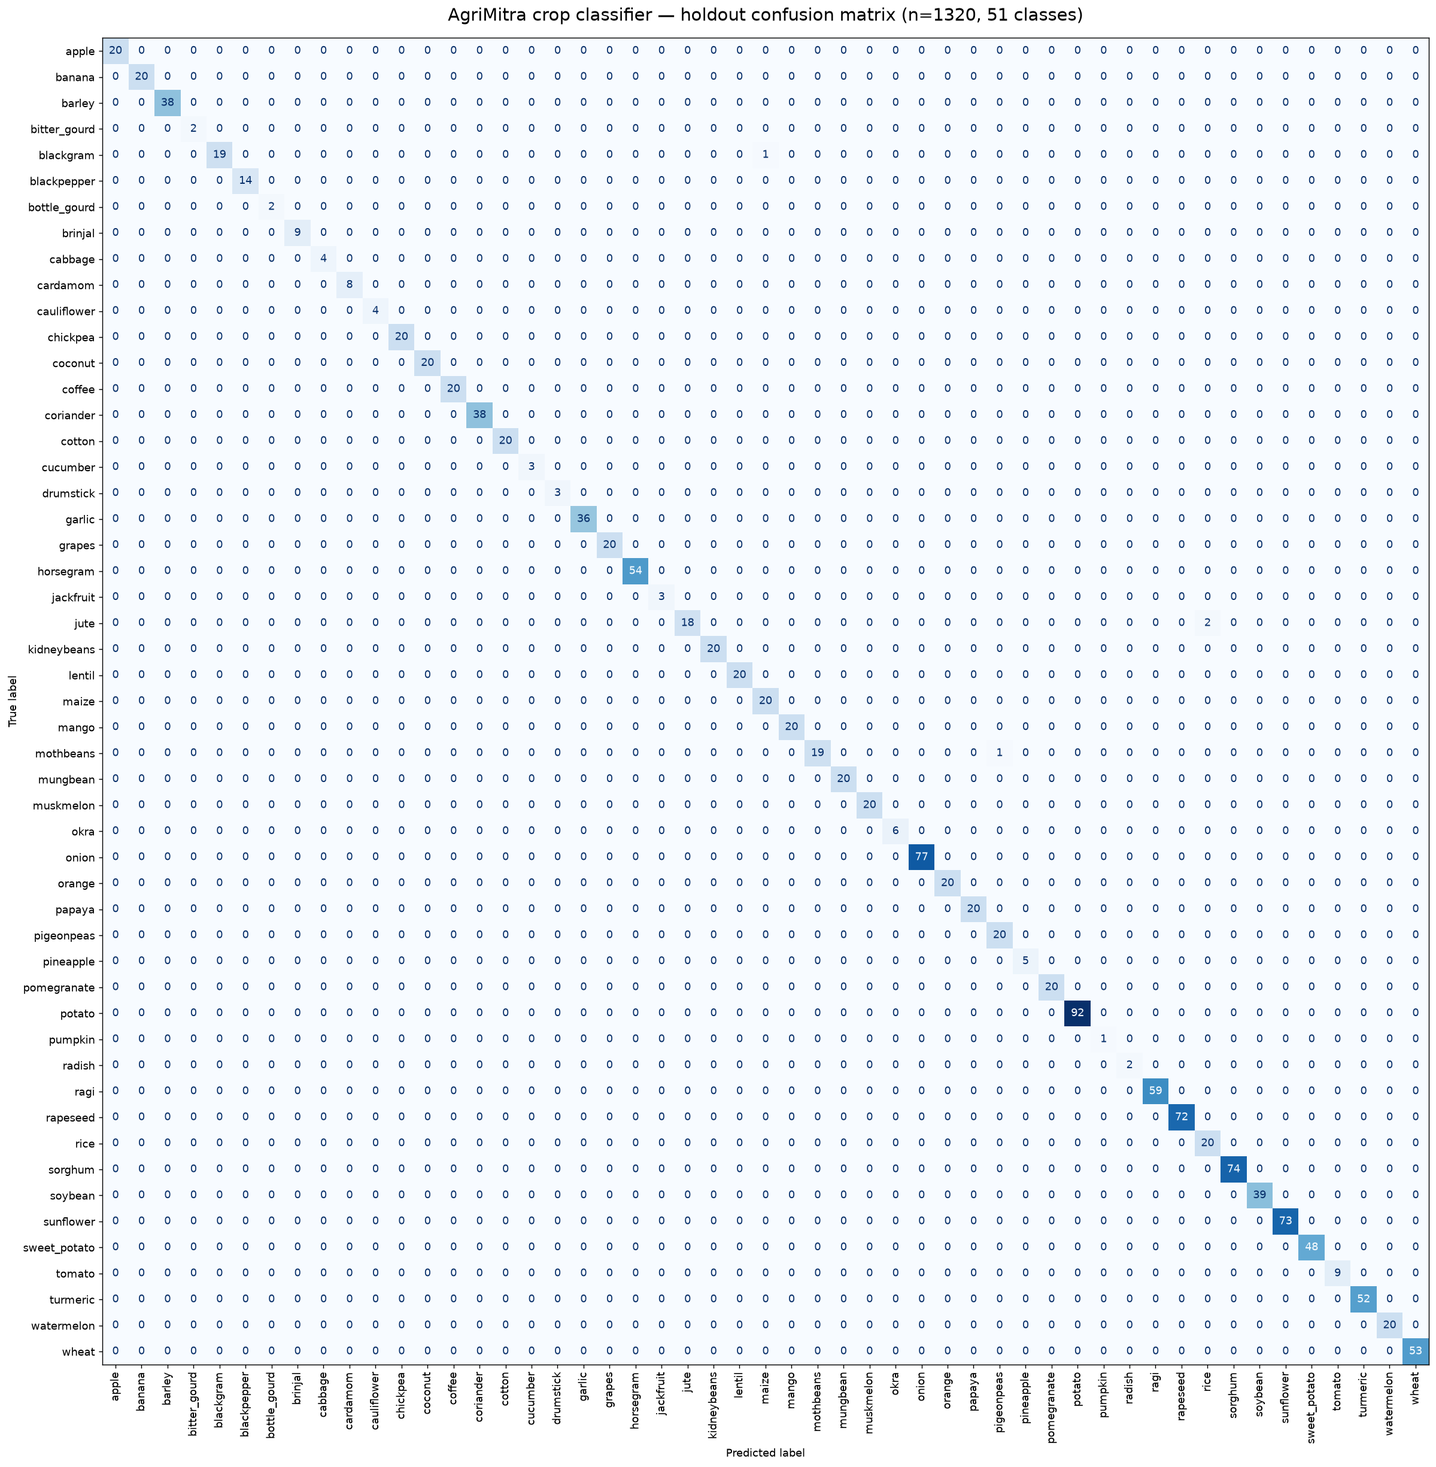
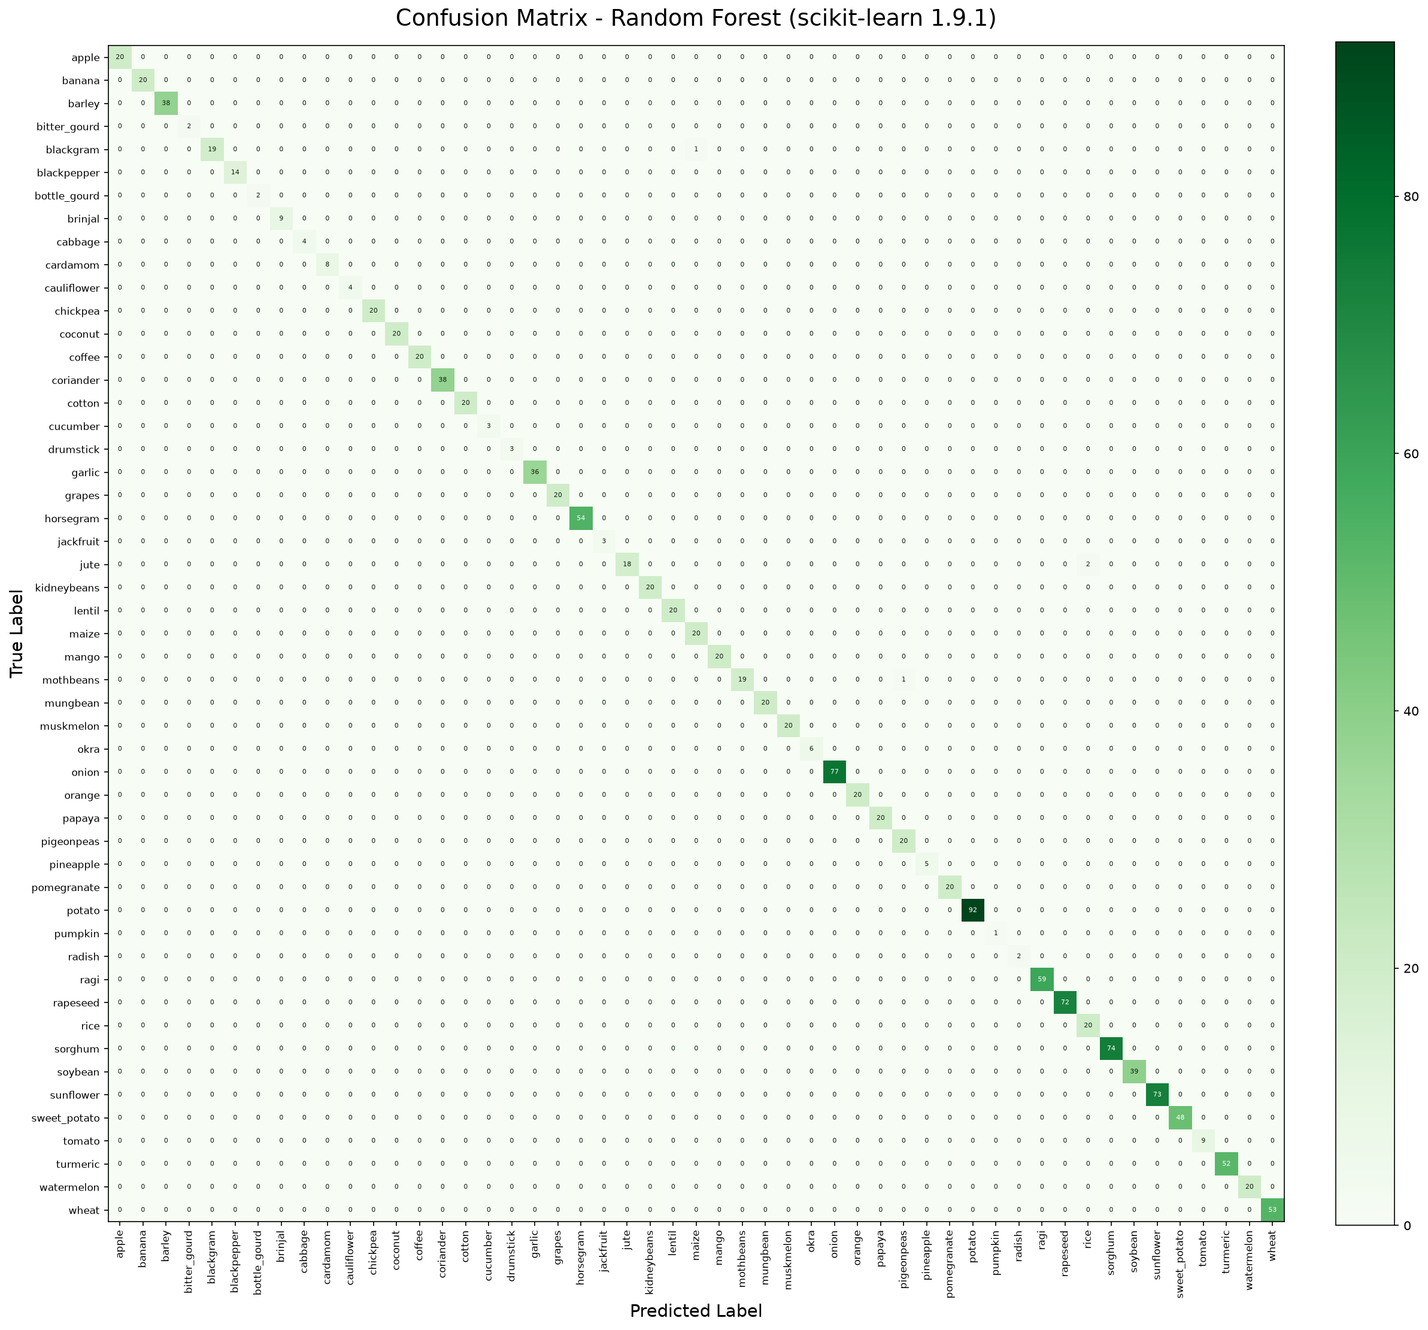
fix: retrain model on pinned sklearn and surface low coverage
Replace the crop artifact with a scikit-learn 1.9.1 model using the existing tuned RandomForest parameters; holdout metrics are unchanged and loading no longer emits InconsistentVersionWarning. Add a UI fallback warning when coverage is below 50%, document the behavior, and cover the backend warning path with a regression test.

diff --git a/src/components/RecommendationForm.tsx b/src/components/RecommendationForm.tsx
@@ -47,6 +47,15 @@ export default function RecommendationForm() {
   const [failed, setFailed] = useState(false);
   const [result, setResult] = useState<RecommendResponse | null>(null);
 
+  const coverage = result?.coverage ?? null;
+  const warnings = result?.warnings ?? [];
+  // The API already emits a coverage warning, but keep a UI fallback so a stale
+  // or cached response can never hide low coverage from the user.
+  const showCoverageWarning =
+    coverage != null &&
+    coverage < 50 &&
+    !warnings.some((w) => /coverage|probability mass/i.test(w));
+
   const fields = useMemo<{ key: FieldKey; placeholder: string }[]>(
     () => [
       { key: "n", placeholder: t("placeholder_n") },
@@ -227,7 +236,7 @@ export default function RecommendationForm() {
               </span>
             </div>
 
-            {result.warnings?.map((w, i) => (
+            {warnings.map((w, i) => (
               <p
                 key={i}
                 className="mt-3 rounded-xl border border-amber-600/30 bg-amber-50 px-3 py-2 text-xs text-amber-700 dark:bg-amber-500/10 dark:text-amber-300"
@@ -235,6 +244,15 @@ export default function RecommendationForm() {
                 ⚠ {w}
               </p>
             ))}
+
+            {showCoverageWarning && coverage != null && (
+              <p className="mt-3 rounded-xl border border-amber-600/30 bg-amber-50 px-3 py-2 text-xs text-amber-700 dark:bg-amber-500/10 dark:text-amber-300">
+                ⚠{" "}
+                {lang === "hi"
+                  ? `मॉडल की केवल ${coverage.toFixed(1)}% संभावना उन फसलों पर है जिनकी पूरी गाइड उपलब्ध है — इन सुझावों को केवल सलाह मानें, निश्चितता नहीं।`
+                  : `Only ${coverage.toFixed(1)}% of the model's probability mass maps to crops with a full guide — treat these picks as suggestions, not certainty.`}
+              </p>
+            )}
 
             <div className="mt-5 grid gap-4 md:grid-cols-2">
               {result.recommendations.map((hit, i) => (

diff --git a/backend/tests/test_recommend.py b/backend/tests/test_recommend.py
@@ -1,5 +1,7 @@
 from fastapi.testclient import TestClient
 
+from app.services import recommender
+
 VALID_PAYLOAD = {
     "n": 90,
     "p": 50,
@@ -52,3 +54,29 @@ def test_recommend_requires_location(client: TestClient):
     response = client.post("/api/recommend", json=payload)
 
     assert response.status_code == 422
+
+
+def test_low_coverage_adds_warning(monkeypatch):
+    crop = {
+        "id": "rice",
+        "slug": "rice",
+        "name": "Rice",
+        "nameHi": "चावल",
+        "emoji": "🌾",
+        "categoryName": "Cereal",
+        "states": [],
+        "conditions": {
+            param: {"min": 0, "max": 100} for param in recommender.PARAMS
+        },
+    }
+    ranked = [{"crop": crop, "confidence": 12.5, "proba": 0.125, "scores": {}}]
+    monkeypatch.setattr(recommender, "load_crop_base", lambda: [crop])
+    monkeypatch.setattr(recommender.ml_model, "predict", lambda inputs, base: (ranked, 12.5))
+
+    result = recommender.recommend(
+        {param: 50.0 for param in recommender.PARAMS},
+        location="",
+    )
+
+    assert result.coverage == 12.5
+    assert any("probability mass" in warning for warning in result.warnings)

diff --git a/backend/app/services/ml_model.py b/backend/app/services/ml_model.py
@@ -59,8 +59,8 @@ def _load_model_cached(path: str, mtime_ns: int):
     with warnings.catch_warnings(record=True) as caught:
         warnings.simplefilter("always")
         model = joblib.load(path)
-    # A forest emits the same version warning once per tree; log each distinct
-    # message once instead of flooding the startup log with 100+ duplicates.
+    # Surface load-time warnings (for example version drift) without repeating
+    # the same message once per tree.
     for message in {str(warning.message) for warning in caught}:
         log.warning(
             "scikit-learn %s warning while loading %s: %s",

diff --git a/README.md b/README.md
@@ -32,16 +32,16 @@ same knowledge base.
 
 ## ✨ Features
 
-| # | Feature | Detail |
-| - | --- | --- |
-| 1 | **Course Hub** | 36 PDFs parsed into Markdown tutorials (~1.6M words) plus structured topic guides for 16 courses (1,613 topics), SSG-rendered, searchable and filterable by 16 categories |
-| 2 | **Crop Knowledge Base** | 22 crops × **15 guide sections** (basics · climate · soil · land prep · seed · sowing · irrigation · nutrients · weeds · pests · diseases · growth · monitoring · harvest · economics) |
-| 3 | **Crop Recommender** | Enter **N, P, K, temperature, humidity, pH, rainfall, location** → top crops with raw model probability, a separate coverage score, and per-parameter fit bars. RandomForest with a rule-based fallback |
-| 4 | **AgriBot (RAG Chatbot)** | Chat widget answers from ChromaDB chunks, shows up to **5 source cards**, and warns when an answer is not grounded in the library. Graceful keyword/offline fallback |
-| 5 | **Bilingual UI** | English ⇄ हिन्दी toggle for the interface, crop names, and chatbot replies |
-| 6 | **Dark / Light mode** | Persisted preference, system-aware default |
-| 7 | **Resilient by design** | MongoDB down → skip persistence, keep serving. Backend down → in-browser recommender and cached chat notes. Timeouts everywhere |
-| 8 | **Modular monorepo** | Next.js BFF routes, FastAPI API modules, Mongo models, services, seed scripts, ML notebooks, and a tested data pipeline |
+| # | Feature                         | Detail                                                                                                                                                                                                         |
+| - | ------------------------------- | -------------------------------------------------------------------------------------------------------------------------------------------------------------------------------------------------------------- |
+| 1 | **Course Hub**            | 36 PDFs parsed into Markdown tutorials (~1.6M words) plus structured topic guides for 16 courses (1,613 topics), SSG-rendered, searchable and filterable by 16 categories                                      |
+| 2 | **Crop Knowledge Base**   | 22 crops × **15 guide sections** (basics · climate · soil · land prep · seed · sowing · irrigation · nutrients · weeds · pests · diseases · growth · monitoring · harvest · economics)    |
+| 3 | **Crop Recommender**      | Enter **N, P, K, temperature, humidity, pH, rainfall, location** → top crops with raw model probability, a separate coverage score, and per-parameter fit bars. RandomForest with a rule-based fallback |
+| 4 | **AgriBot (RAG Chatbot)** | Chat widget answers from ChromaDB chunks, shows up to **5 source cards**, and warns when an answer is not grounded in the library. Graceful keyword/offline fallback                                     |
+| 5 | **Bilingual UI**          | English ⇄ हिन्दी toggle for the interface, crop names, and chatbot replies                                                                                                                              |
+| 6 | **Dark / Light mode**     | Persisted preference, system-aware default                                                                                                                                                                     |
+| 7 | **Resilient by design**   | MongoDB down → skip persistence, keep serving. Backend down → in-browser recommender and cached chat notes. Timeouts everywhere                                                                              |
+| 8 | **Modular monorepo**      | Next.js BFF routes, FastAPI API modules, Mongo models, services, seed scripts, ML notebooks, and a tested data pipeline                                                                                        |
 
 ---
 
@@ -113,13 +113,13 @@ Browser UI · recommender · chatbot with source cards
 
 ## 🧰 Tech Stack
 
-| Layer | Technology |
-| --- | --- |
-| Frontend | Next.js 16 (App Router) · React 19 · TypeScript · Tailwind CSS v4 · lucide-react · react-markdown |
-| Backend | FastAPI 0.141 · uvicorn · Pydantic v2 · httpx |
-| Databases | MongoDB 7 (Docker) · ChromaDB 1.5 (vector) |
-| AI | Groq `openai/gpt-oss-120b` · local embeddings (`all-MiniLM-L6-v2`, ONNX, 384d) · Gemini optional |
-| Tooling | Node 24 · Python **3.14** · uv · Docker Compose · pytest · GitHub Actions |
+| Layer     | Technology                                                                                             |
+| --------- | ------------------------------------------------------------------------------------------------------ |
+| Frontend  | Next.js 16 (App Router) · React 19 · TypeScript · Tailwind CSS v4 · lucide-react · react-markdown |
+| Backend   | FastAPI 0.141 · uvicorn · Pydantic v2 · httpx                                                       |
+| Databases | MongoDB 7 (Docker) · ChromaDB 1.5 (vector)                                                            |
+| AI        | Groq `openai/gpt-oss-120b` · local embeddings (`all-MiniLM-L6-v2`, ONNX, 384d) · Gemini optional |
+| Tooling   | Node 24 · Python **3.14** · uv · Docker Compose · pytest · GitHub Actions                   |
 
 > `allam-2-7b` is still available on Groq and was verified for English and Hindi,
 > but its Hindi farming answers were noticeably weaker. The default is therefore
@@ -133,15 +133,18 @@ Browser UI · recommender · chatbot with source cards
 The trained artifact is a scikit-learn `RandomForestClassifier` over **51 crop
 labels**, using the feature order `N, P, K, temperature, humidity, ph, rainfall`.
 
-| Metric | Value |
-| --- | ---: |
-| Holdout samples | 1,320 |
-| Correct | 1,316 |
+| Metric             |             Value |
+| ------------------ | ----------------: |
+| Holdout samples    |             1,320 |
+| Correct            |             1,316 |
 | **Accuracy** | **0.99697** |
-| Macro precision | 0.99635 |
-| Macro recall | 0.99608 |
+| Macro precision    |           0.99635 |
+| Macro recall       |           0.99608 |
 | **Macro F1** | **0.99607** |
-| Weighted F1 | 0.99696 |
+| Weighted F1        |           0.99696 |
+
+The artifact is trained and saved with **scikit-learn 1.9.1**, matching
+`requirements.txt`, so loading it no longer emits an `InconsistentVersionWarning`.
 
 The holdout is the same **80/20 stratified split** (`random_state=42`) used in
 `crop-ml/trainingModel.ipynb`. Full values are in
@@ -174,14 +177,14 @@ Top confusions: `jute → rice` (2), `blackgram → maize` (1),
 
 ## 📦 Hosted Assets
 
-| Asset | Location |
-| --- | --- |
-| Source code | [GitHub](https://github.com/Likeshkumarsahu/AgriMitra) |
-| 36 source PDFs | [HF dataset root](https://huggingface.co/datasets/logicmatters06/agrimitra-dataset) |
+| Asset           | Location                                                                                               |
+| --------------- | ------------------------------------------------------------------------------------------------------ |
+| Source code     | [GitHub](https://github.com/Likeshkumarsahu/AgriMitra)                                                  |
+| 36 source PDFs  | [HF dataset root](https://huggingface.co/datasets/logicmatters06/agrimitra-dataset)                     |
 | 20 JSON exports | [HF dataset `json/`](https://huggingface.co/datasets/logicmatters06/agrimitra-dataset/tree/main/json) |
-| Trained model | [`logicmatters06/agrimitra-crop-model`](https://huggingface.co/logicmatters06/agrimitra-crop-model) |
-| Model card | [`docs/hf-model-card.md`](docs/hf-model-card.md) |
-| Dataset card | [`docs/hf-dataset-card.md`](docs/hf-dataset-card.md) |
+| Trained model   | [`logicmatters06/agrimitra-crop-model`](https://huggingface.co/logicmatters06/agrimitra-crop-model)   |
+| Model card      | [`docs/hf-model-card.md`](docs/hf-model-card.md)                                                      |
+| Dataset card    | [`docs/hf-dataset-card.md`](docs/hf-dataset-card.md)                                                  |
 
 The app does **not** need the PDFs at runtime: the generated `data/*.json` and
 `data/courses/*.md` are enough for the frontend. Download the PDFs only when you
@@ -308,24 +311,24 @@ cp .env.example .env.local
 cp backend/.env.example backend/.env
 ```
 
-| Variable | Where | Required | Default | Purpose |
-| --- | --- | :---: | --- | --- |
-| `GROQ_API_KEY` | `backend/.env` | ✅ | – | Chat generation |
-| `LLM_PROVIDER` | `backend/.env` | ❌ | `groq` | `groq` or `gemini` |
-| `GROQ_MODEL` | `backend/.env` | ❌ | `openai/gpt-oss-120b` | Auto-detects another model if unreachable |
-| `GEMINI_API_KEY` | `backend/.env` | ❌ | – | Only for Gemini chat/embeddings |
-| `GEMINI_MODEL` | `backend/.env` | ❌ | `gemini-2.5-flash` | Only if `LLM_PROVIDER=gemini` |
-| `EMBEDDING_PROVIDER` | `backend/.env` | ❌ | `local` | `local` (ONNX) or `gemini` (API) |
-| `MONGODB_URI` | `backend/.env` | ❌ | `mongodb://localhost:27017` | Mongo connection |
-| `DATA_DIR` | `backend/.env` | ❌ | `./data` | Relative paths resolve from repo root |
-| `CHROMA_PERSIST_DIR` | `backend/.env` | ❌ | `./data/chroma` | Vector store path |
-| `CROP_MODEL_PATH` | `backend/.env` | ❌ | `./crop-ml/crop_recommendation_model.pkl` | Empty/missing disables ML |
-| `RAG_TOP_K` | `backend/.env` | ❌ | `5` | Retrieved chunks and max source cards |
-| `CHROMA_MAX_DISTANCE` | `backend/.env` | ❌ | `0.75` | Drop weak vector matches |
-| `CHAT_RATE_LIMIT` | `backend/.env` | ❌ | `20` | Requests per client per window |
-| `CHAT_RATE_WINDOW_S` | `backend/.env` | ❌ | `60` | Rate-limit window (seconds) |
-| `BACKEND_URL` | root `.env.local` | ❌ | `http://localhost:8000` | Private BFF target |
-| `NEXT_PUBLIC_BACKEND_URL` | root `.env.local` | ❌ | `http://localhost:8000` | Direct backend URL |
+| Variable                    | Where               | Required | Default                                     | Purpose                                   |
+| --------------------------- | ------------------- | :------: | ------------------------------------------- | ----------------------------------------- |
+| `GROQ_API_KEY`            | `backend/.env`    |    ✅    | –                                          | Chat generation                           |
+| `LLM_PROVIDER`            | `backend/.env`    |    ❌    | `groq`                                    | `groq` or `gemini`                    |
+| `GROQ_MODEL`              | `backend/.env`    |    ❌    | `openai/gpt-oss-120b`                     | Auto-detects another model if unreachable |
+| `GEMINI_API_KEY`          | `backend/.env`    |    ❌    | –                                          | Only for Gemini chat/embeddings           |
+| `GEMINI_MODEL`            | `backend/.env`    |    ❌    | `gemini-2.5-flash`                        | Only if `LLM_PROVIDER=gemini`           |
+| `EMBEDDING_PROVIDER`      | `backend/.env`    |    ❌    | `local`                                   | `local` (ONNX) or `gemini` (API)      |
+| `MONGODB_URI`             | `backend/.env`    |    ❌    | `mongodb://localhost:27017`               | Mongo connection                          |
+| `DATA_DIR`                | `backend/.env`    |    ❌    | `./data`                                  | Relative paths resolve from repo root     |
+| `CHROMA_PERSIST_DIR`      | `backend/.env`    |    ❌    | `./data/chroma`                           | Vector store path                         |
+| `CROP_MODEL_PATH`         | `backend/.env`    |    ❌    | `./crop-ml/crop_recommendation_model.pkl` | Empty/missing disables ML                 |
+| `RAG_TOP_K`               | `backend/.env`    |    ❌    | `5`                                       | Retrieved chunks and max source cards     |
+| `CHROMA_MAX_DISTANCE`     | `backend/.env`    |    ❌    | `0.75`                                    | Drop weak vector matches                  |
+| `CHAT_RATE_LIMIT`         | `backend/.env`    |    ❌    | `20`                                      | Requests per client per window            |
+| `CHAT_RATE_WINDOW_S`      | `backend/.env`    |    ❌    | `60`                                      | Rate-limit window (seconds)               |
+| `BACKEND_URL`             | root `.env.local` |    ❌    | `http://localhost:8000`                   | Private BFF target                        |
+| `NEXT_PUBLIC_BACKEND_URL` | root `.env.local` |    ❌    | `http://localhost:8000`                   | Direct backend URL                        |
 
 > 🔒 **Never commit real `.env*` files.** `.env.example`, `backend/.env.example`,
 > and non-secret templates are the only exceptions.
@@ -416,14 +419,14 @@ The full model evaluation can be regenerated from the notebook or the committed
 
 Base URL: `http://localhost:8000`
 
-| Method | Endpoint | Body | Response |
-| --- | --- | --- | --- |
-| `GET` | `/api/health` | – | `{status, services:{mongo,chroma,llm_provider,llm_configured,embedding,crop_model}, model_version}` |
-| `POST` | `/api/recommend` | `{n,p,k,temperature,humidity,ph,rainfall,location,language}` | `{recommendations[{...,confidence,rawProbability,scores}], modelVersion, coverage, generatedAt, warnings}` |
-| `GET` | `/api/crops` | – | 22 crops × full 15-section data |
-| `GET` | `/api/crops/{slug}` | – | single crop document |
-| `GET` | `/api/courses` | – | 36 course summaries |
-| `POST` | `/api/chat` | `{message, language, session_id?}` | `{session_id, reply, sources[…], fallback, grounded}` |
+| Method   | Endpoint              | Body                                                           | Response                                                                                                     |
+| -------- | --------------------- | -------------------------------------------------------------- | ------------------------------------------------------------------------------------------------------------ |
+| `GET`  | `/api/health`       | –                                                             | `{status, services:{mongo,chroma,llm_provider,llm_configured,embedding,crop_model}, model_version}`        |
+| `POST` | `/api/recommend`    | `{n,p,k,temperature,humidity,ph,rainfall,location,language}` | `{recommendations[{...,confidence,rawProbability,scores}], modelVersion, coverage, generatedAt, warnings}` |
+| `GET`  | `/api/crops`        | –                                                             | 22 crops × full 15-section data                                                                             |
+| `GET`  | `/api/crops/{slug}` | –                                                             | single crop document                                                                                         |
+| `GET`  | `/api/courses`      | –                                                             | 36 course summaries                                                                                          |
+| `POST` | `/api/chat`         | `{message, language, session_id?}`                           | `{session_id, reply, sources[…], fallback, grounded}`                                                     |
 
 **Error convention:** hard failures never return 2xx.
 
@@ -438,8 +441,10 @@ Base URL: `http://localhost:8000`
 temperature, humidity, pH, rainfall, computes `predict_proba` over 51 labels, and
 returns **raw probabilities** for the 22 guide crops. `coverage` is the percentage
 of probability mass that maps to those guide crops; it is **not** renormalised to
-100%. Low coverage produces a warning. Confidence = raw probability × 100 (+ the
-region bonus), while `rawProbability` stays untouched for transparency.
+100%. Coverage below **50%** adds a warning to the API response, and the results
+panel renders an amber banner with a UI-side fallback based on `coverage`.
+Confidence = raw probability × 100 (+ the region bonus), while `rawProbability`
+stays untouched for transparency.
 
 **Fallback — rule engine** (`modelVersion: rule-based-v1`): each crop scores 0–100
 per parameter, weighted **N 15% · P 10% · K 10% · Temperature 20% · Humidity 15% ·

diff --git a/docs/hf-model-card.md b/docs/hf-model-card.md
@@ -42,7 +42,8 @@ climate inputs:
 The model predicts one of **51 crop labels**. AgriMitra only displays the 22 crops
 that also have a full 15-section guide in its knowledge base; the remaining labels
 are still part of the trained classifier and are exposed through the response's
-`coverage` value.
+`coverage` value. The AgriMitra UI shows an amber warning whenever coverage drops
+below 50%, so raw probabilities are not presented as certainty.
 
 ## Files
 
@@ -97,10 +98,9 @@ ranked = sorted(zip(labels, proba), key=lambda item: item[1], reverse=True)
 print(ranked[:5])
 ```
 
-The artifact was trained with scikit-learn 1.8 and is loaded here with
-**scikit-learn 1.9.1**. Loading emits an `InconsistentVersionWarning`; the
-AgriMitra backend logs that warning rather than hiding it. Pin the runtime to the
-version in `requirements.txt` for reproducible results.
+The artifact was trained and saved with **scikit-learn 1.9.1**, the version pinned
+in `requirements.txt`. It therefore loads without an `InconsistentVersionWarning`.
+Keep the training and runtime versions aligned when regenerating the artifact.
 
 ## Limitations
 
